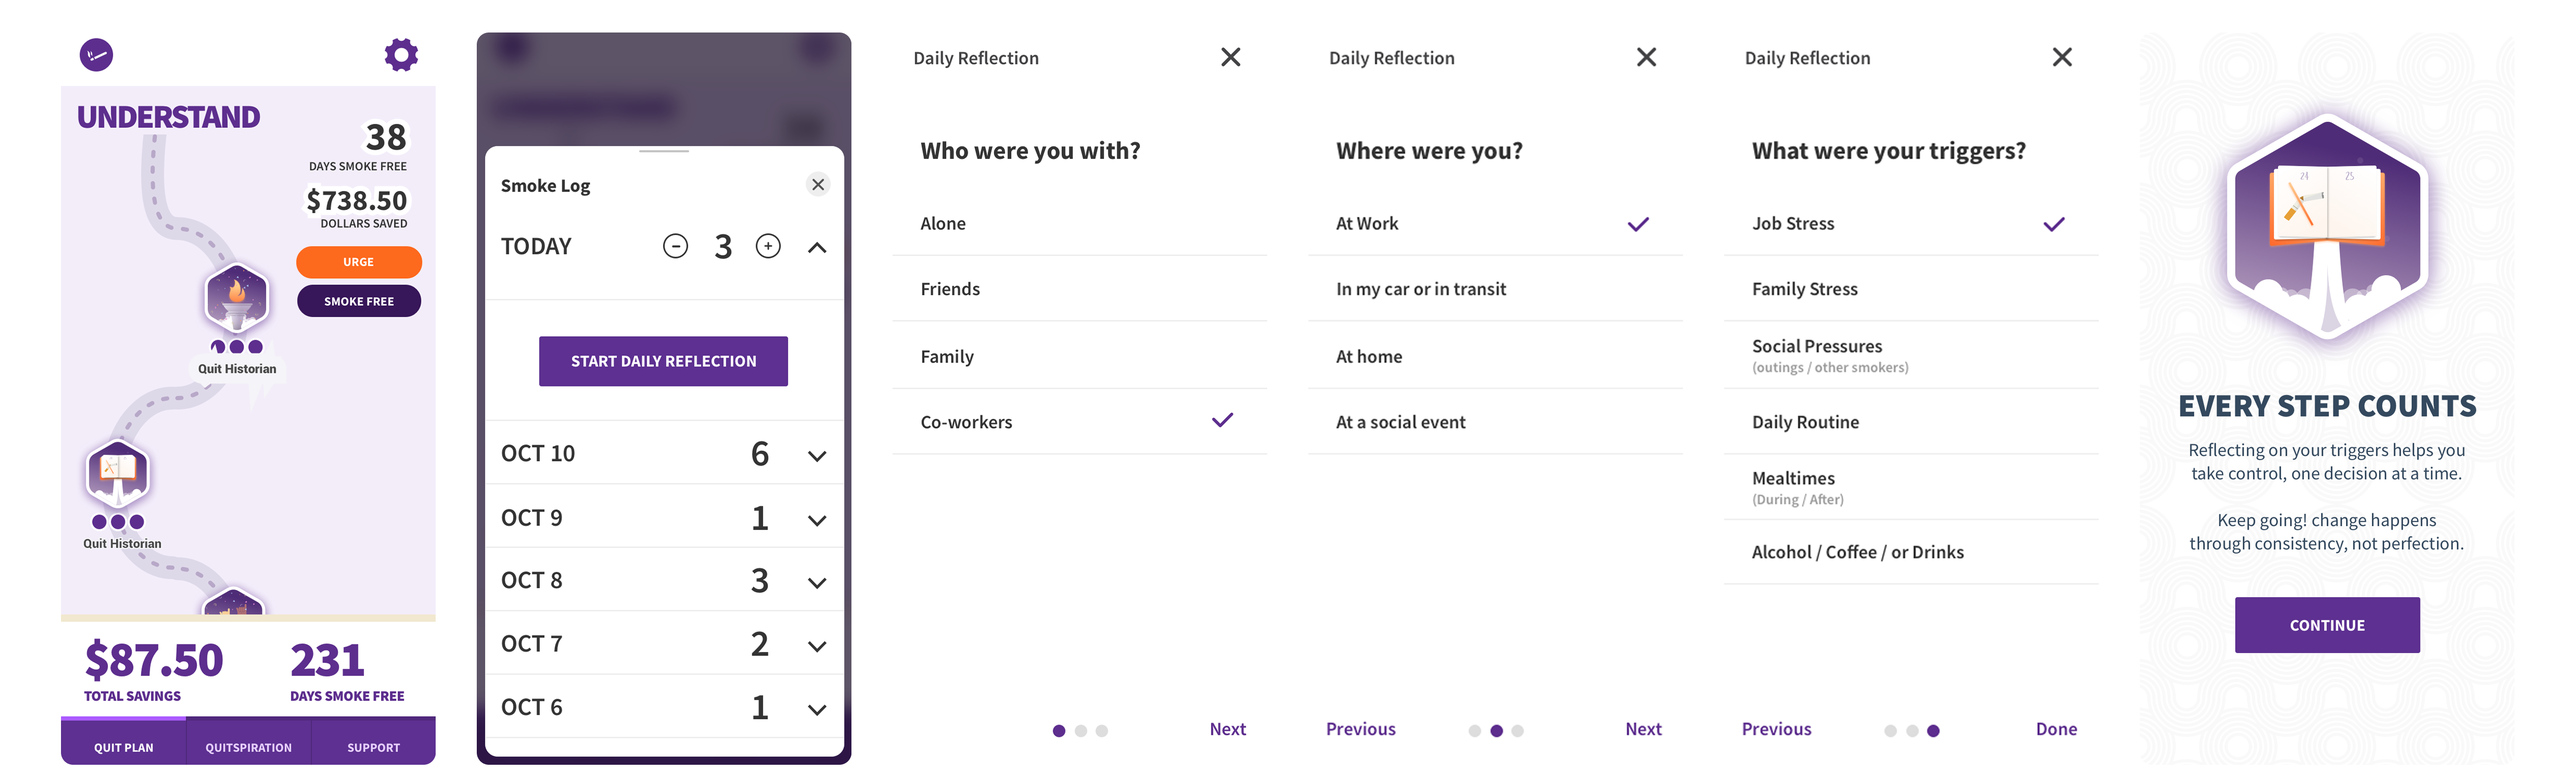
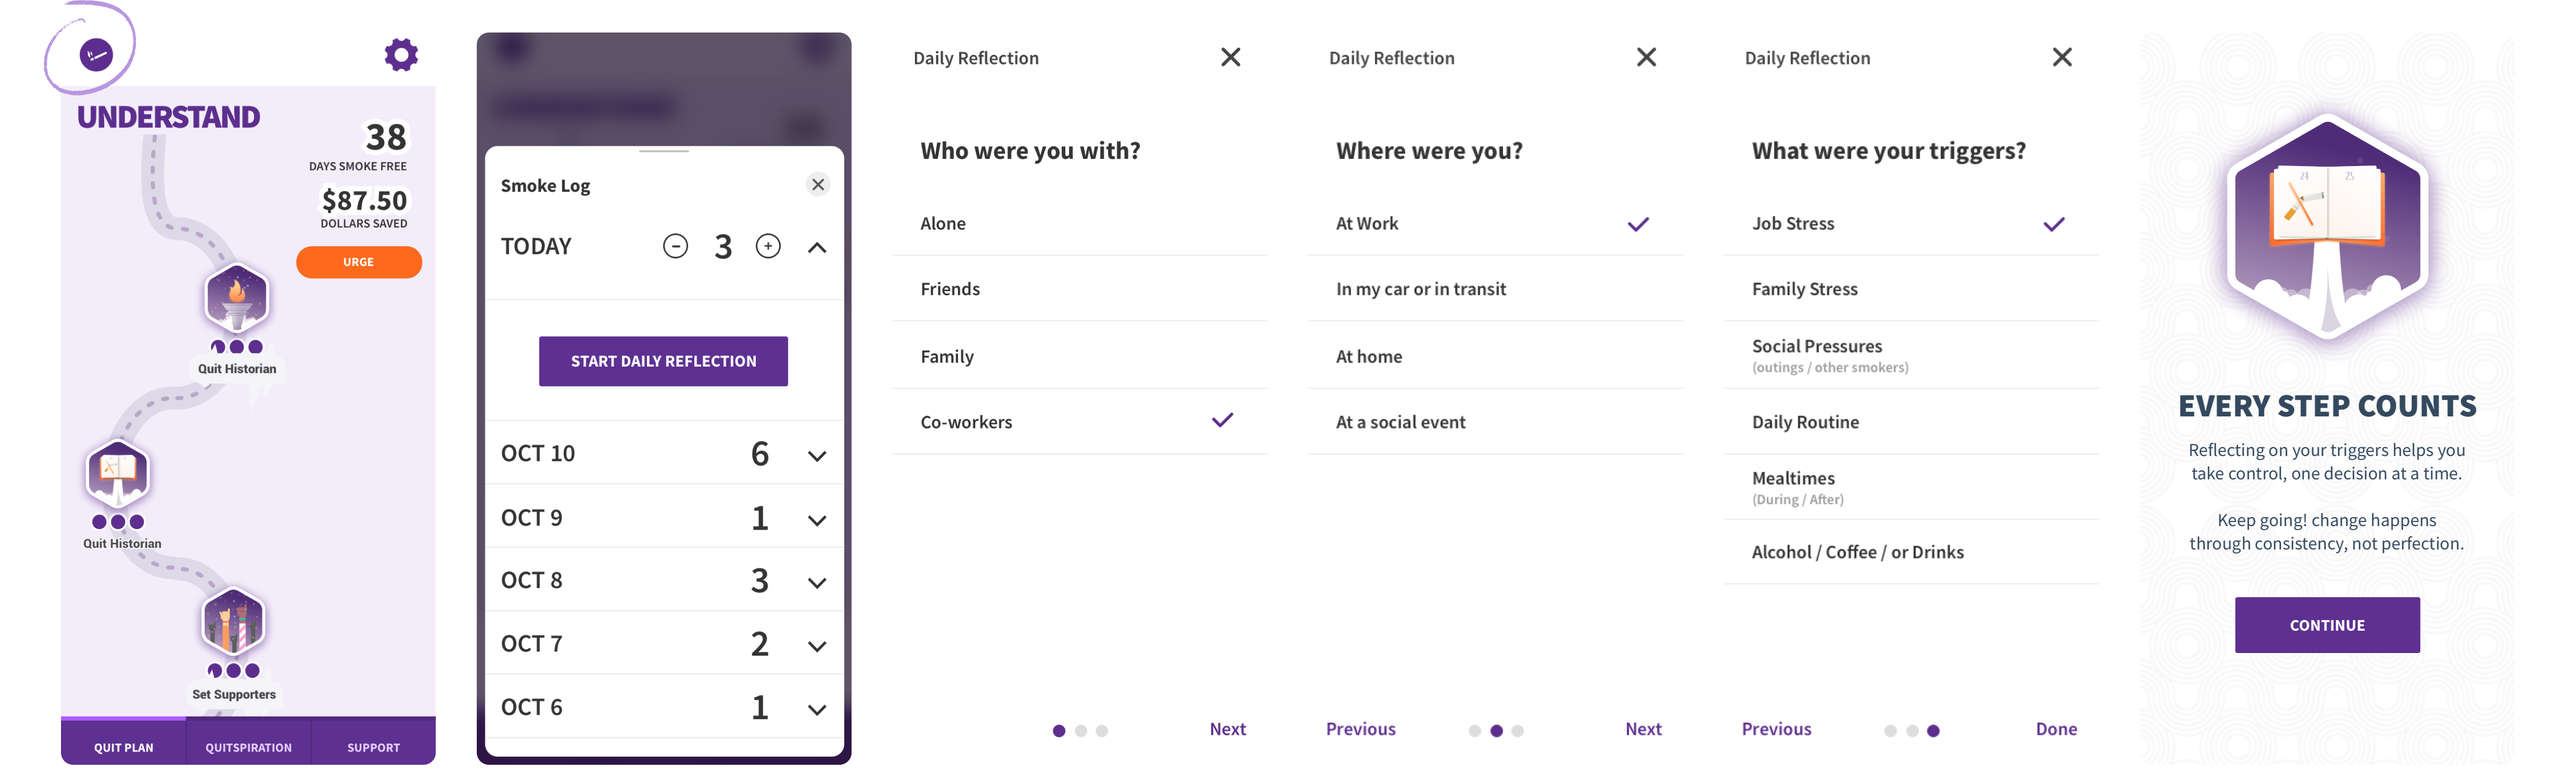
folio 4 changes

diff --git a/folio_four.html b/folio_four.html
@@ -279,6 +279,34 @@
 			<div class="row">
 				<div class="col-md-2"></div>
 				<div class="col-md-8 to-animate">
+					<h2>UX Impact & Results</h2>
+					<p>During usability testing, we noticed a key friction point in my design solution, users struggled to locate the Smoke Log because many mistook its icon for the app’s logo. Many didn’t realize it was a clickable action, making it unclear that they needed to log their smoking activity.</p>
+					<li>80% of the users failed to complete the smoke log task on their first attempt.</li>
+					<li>Click through rate on the Smoke Log icon was low, due to poor viusal clarity.</li>
+					<li>Time on task increased, users spending long time trying to figure out what the icon represented before taking any action.</li>
+					
+					<div class="row-spacer-m4"></div>
+					
+					<h3>Action items</h3>
+					<p>This led us on improving engagement through push notifications, testing different messages and timings to remind users to log their activity and help boost completion rates.</p>
+					<p>I also redesigned the top navigation area and made the smoke log entry more clear.The settings icon was replaced with a menu icon and moved to the left for less important actions. The Smoke Log was renamed to Log Entry, moved to the right, and made easier to find.</p>
+				</div>
+			</div>
+
+			<div class="row">
+				<div class="col-md-12 to-animate text-center project-hero">
+					<img style="max-width: 100%;" src="images/projects/qc/folio_four_07@2x.png" alt="visual ui kit"/>
+				</div>
+			</div>
+
+		</div>
+
+		<div class="row-spacer-m8"></div>
+
+		<div class="container">
+			<div class="row">
+				<div class="col-md-2"></div>
+				<div class="col-md-8 to-animate">
 					<h2>Visual Direction & Consistency</h2>
 					<p>Pfizer had an established marketing identity, providing a strong foundation for Quitter’s Circle’s visual language. So, I  took what was there and built a UI Kit in Sketch to make sure the digital experience adheres to consistency and that it support a full range of interaction states, accessibility needs, and behavioral cues.</p>
 				</div>
